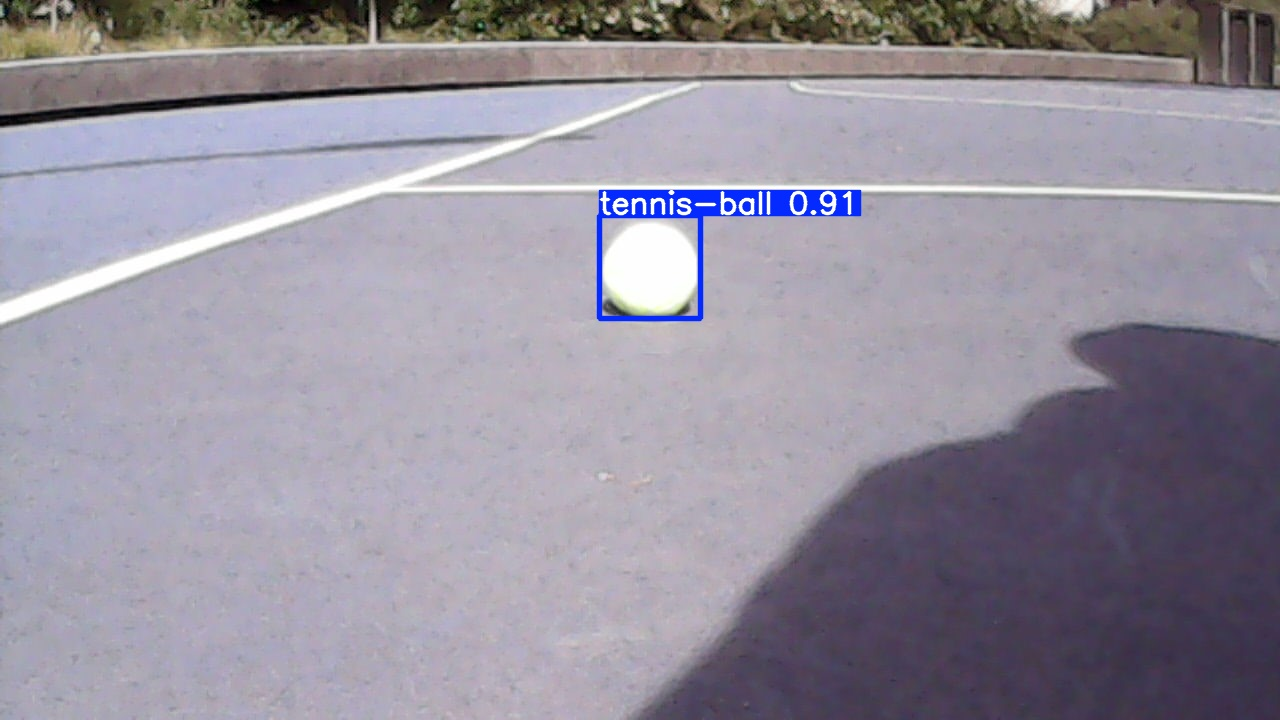
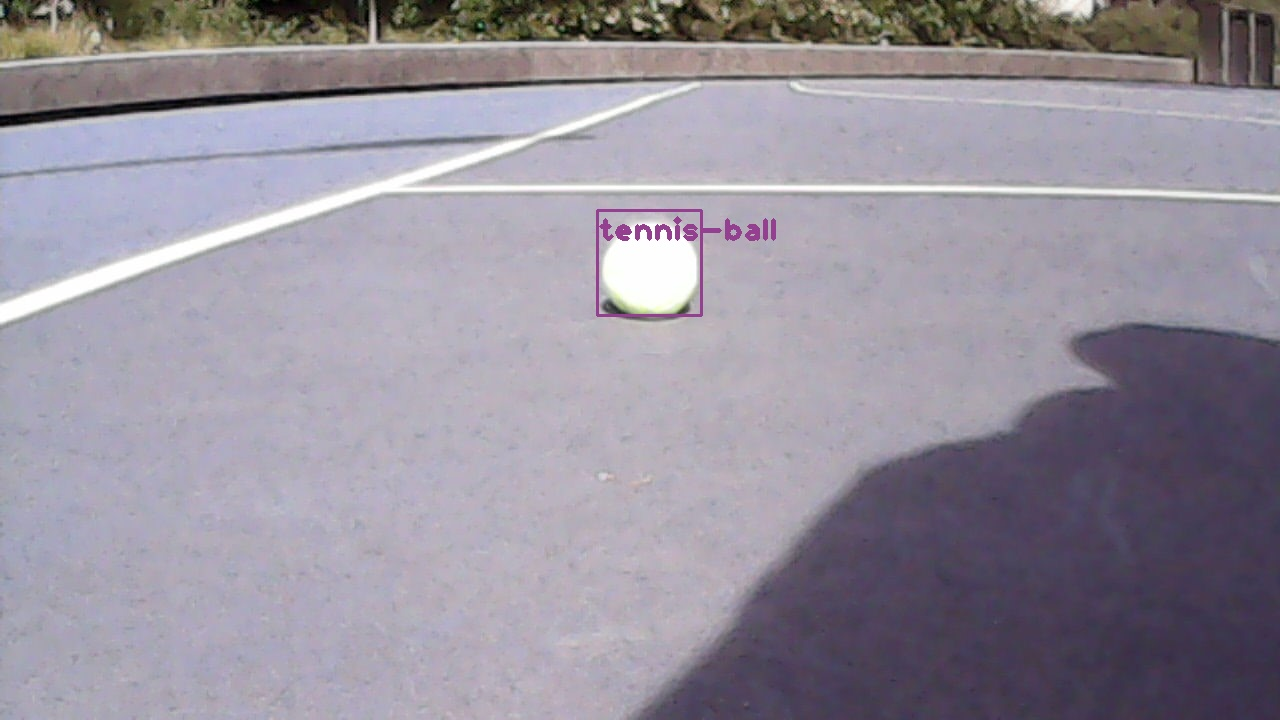
Adjusting Camera Settings
- Able to manually set brightness
- Updated YOLO model so it doesn't have big load time
- Inference is around ~800ms (with camera capture)

Changed region(s): [[0.4375, 0.2444, 0.6875, 0.4583], [0.4375, 0.3972, 0.4688, 0.4278]]

diff --git a/camera.py b/camera.py
@@ -2,8 +2,7 @@ import numpy as np
 import cv2
 import time
 import unittest
-# import torch
-from ultralytics import YOLO
+import ncnn # faster/lighter than ultralytics and torch
 
 class Camera:
     """
@@ -20,14 +19,22 @@ class Camera:
             self.cap = cv2.VideoCapture(-1, cv2.CAP_V4L)
             self.cap.set(cv2.CAP_PROP_FRAME_WIDTH, 640)
             self.cap.set(cv2.CAP_PROP_FRAME_HEIGHT, 480)
-            self.cap.set(cv2.CAP_PROP_FPS, 25)
-            # TODO: set autoexposure settings
-            time.sleep(0.5)
+            self.cap.set(cv2.CAP_PROP_FPS, 30)
+
+            # Default buffer size is 4, changes to brightness might not be observed until 4 frames are read
+            self.cap.set(cv2.CAP_PROP_BUFFERSIZE, 1)
+
+            # NOTE: I don't think our camera has exposure settings
+            # set the brightness instead (in range -255 to +255)
+            self.cap.set(cv2.CAP_PROP_BRIGHTNESS, -50)
+            time.sleep(0.1)
         else:
             self.cap = None
 
-        # Load ball detection model Model
-        self.model = YOLO('CV/YOLO_ball_detection.pt', verbose=True)
+        # Load ball detection model
+        self.model = ncnn.Net()
+        self.model.load_param("./CV/YOLO_ball_detection_ncnn_model/model.ncnn.param")
+        self.model.load_model("./CV/YOLO_ball_detection_ncnn_model/model.ncnn.bin")
 
         # Homography that transforms image coordinates to world coordinates
         self._H = np.array([
@@ -52,25 +59,79 @@ class Camera:
              print("Image not captured")
              return None
     
-    def apply_YOLO_model(self, img):
-        # Predict with the model
-        
-        image = cv2.cvtColor(img, cv2.COLOR_BGR2RGB)
+    def apply_YOLO_model(self, image):
+        """
+        Apply YOLO model to get locations of balls
+        """
+        # Preprocessing
+        height, width, _ = image.shape
+        img_proc = cv2.cvtColor(image, cv2.COLOR_BGR2RGB)
 
-        results = self.model(image, conf=0.50, verbose=False)  # predict on an image
+        img = image.copy()
+        shape = img.shape[:2]  # current shape [height, width]
+        new_shape = (640, 640)
 
+        # Scale ratio (new / old)
+        r = min(new_shape[0] / shape[0], new_shape[1] / shape[1])
+
+        # Compute padding
+        stride = 32
+        ratio = r, r  # width, height ratios
+        new_unpad = int(round(shape[1] * r)), int(round(shape[0] * r))
+        dw, dh = new_shape[1] - new_unpad[0], new_shape[0] - new_unpad[1]  # wh padding
+
+        dw /= 2  # divide padding into 2 sides
+        dh /= 2
+
+        if shape[::-1] != new_unpad:  # resize
+            img = cv2.resize(img, new_unpad, interpolation=cv2.INTER_LINEAR)
+        top, bottom = int(round(dh - 0.1)), int(round(dh + 0.1))
+        left, right = int(round(dw - 0.1)), int(round(dw + 0.1))
+        img = cv2.copyMakeBorder(
+            img, top, bottom, left, right, cv2.BORDER_CONSTANT, value=(114, 114, 114)
+        )  # add border
+
+        im = np.stack([img])
+        im = im[..., ::-1].transpose((0, 3, 1, 2))  # BGR to RGB, BHWC to BCHW, (n, 3, h, w)
+        in0 = np.ascontiguousarray(im/255).astype(np.float32)  # contiguous
+
+        # Prepare input
+        mat_in = ncnn.Mat(in0)
+
+        # Run inference
+        extractor = self.model.create_extractor()
+        extractor.input("in0", mat_in)
+        ret, mat_out = extractor.extract("out0")
+        out = np.array(mat_out)
         points = []
-        # Process results list
-        for result in results:
-            boxes = result.boxes  # Boxes object for bounding box outputs
-            for b in boxes:
-                d = b.xywh[0]
-                # points.append([d[])
-                points.append([d[0], d[1] + d[3]/2])
-            # result.show()  # display to screen
-            # result.save(filename="result.jpg")  # save to disk
 
-        # TODO: Filter out invlalid detections based on box size
+        # Process results (find the max)
+        for i in range(mat_out.w):
+            detection = out[:, i]
+            scores = detection[4:]
+            class_id = np.argmax(scores)
+            confidence = scores[class_id]
+            
+            if confidence > 0.6:
+                # Object detected
+                # TODO: Filter out invalid detections based on box size
+                xywh = detection[:4] / 640 # Centered coordinates
+                y = detection[1]
+                y = (y - top) / (640 - top - bottom)
+                
+                x = int(xywh[0] * width)
+                y = int(y * height + xywh[3] * width * 0.5)
+                
+                # Check if it already exists
+                duplicate = False
+                for p in points:
+                    if (p[0] - x) ** 2 + (p[1] - y)**2 < 5:
+                        duplicate = True
+                        break # don't add duplicate points
+                
+                if not duplicate:
+                    points.append([x, y])
+
         points = np.array(points)
         return points.astype(int)
 
@@ -156,22 +217,44 @@ class Camera:
 
 
 
-class TestBot(unittest.TestCase):
+class TestCamera(unittest.TestCase):
     """
     Test Camera specific functions
     """
     def setUp(self):
-        self.cam = Camera(False)
+        self.startTime = time.time()
+
+    def tearDown(self):
+        t = time.time() - self.startTime
+        print('%s: %.3f' % (self.id(), t))
 
     def test_image_to_world(self):
+        self.cam = Camera(False) # no camera
         img_c = np.array([[100, 100]])
         self.cam.image_to_world(img_c)
 
     def test_YOLO_model(self):
         # Open image(s) and pass to model
+        self.cam = Camera(False) # no camera
         img = cv2.imread('CV/test_imgs/test_images/testing0001.jpg')
         res = self.cam.apply_YOLO_model(img)
         print(res)
+
+    def test_capture(self):
+        self.cam = Camera(True)
+        self.startTime = time.time()
+        img = self.cam.capture()
+        if img is not None:
+            cv2.imwrite("result.jpg", img)
+        self.assertTrue(img is not None, "Camera did not capture anything")
+        for i in range(0, 10):
+            s = time.time()
+            img = self.cam.capture()
+            if img is not None:
+                cv2.imwrite(f"./test_results/result{i}.jpg", img)
+            e = time.time()
+            print(f"Frame {i}: {(e-s)*1e3:.2f} msec")
+
 
     def test_ball_detection(self):
         # Open image(s) and pass to function
@@ -184,7 +267,7 @@ class TestBot(unittest.TestCase):
     def test_box_detection(self):
         # Open images and pass to function
         ...
-        
 
 if __name__ == '__main__':
-    unittest.main()
+    suite = unittest.TestLoader().loadTestsFromTestCase(TestCamera)
+    unittest.TextTestRunner(verbosity=0).run(suite)

diff --git a/CV/toNCNN.py b/CV/toNCNN.py
@@ -1,6 +1,11 @@
+"""
+NCNN is a lighter neural network library that loads a lot faster than torch/ultralytics
+Convert/test YOLO model here
+"""
 import time
 import cv2
 import numpy as np
+import timeit
 
 t = time.time()
 from ultralytics import YOLO
@@ -12,8 +17,21 @@ ncnn_model = YOLO("./YOLO_ball_detection_ncnn_model", task="detect")
 # print(f'YOLO Model loaded in {time.time()-t-e} seconds.')
 
 # # Run inference
+t = time.time()
 results = ncnn_model("./test_imgs/test_images/testing0000.jpg")
-print(results[0].boxes[0].xyxy)
+# print(results[0].boxes[0].xyxy)
+e = time.time()
+print(f'Ultralytics NCNN YOLO inferred in {e - t} seconds.')
+
+# Load the OG YOLO model
+ncnn_model = YOLO("YOLO_ball_detection.pt")
+
+# # Run inference
+t = time.time()
+results = ncnn_model("./test_imgs/test_images/testing0000.jpg")
+# print(results[0].boxes[0].xyxy)
+e = time.time()
+print(f'Ultralytics YOLO inferred in {e - t} seconds.')
 
 t = time.time()
 import ncnn
@@ -59,16 +77,9 @@ img = cv2.copyMakeBorder(
     img, top, bottom, left, right, cv2.BORDER_CONSTANT, value=(114, 114, 114)
 )  # add border
 
-# cv2.imshow("img", img)
-# cv2.waitKey(0)
-
 im = np.stack([img])
 im = im[..., ::-1].transpose((0, 3, 1, 2))  # BGR to RGB, BHWC to BCHW, (n, 3, h, w)
 in0 = np.ascontiguousarray(im/255).astype(np.float32)  # contiguous
-
-
-# cv2.imshow('win', image)
-# cv2.waitKey(0)
 
 # Prepare input
 mat_in = ncnn.Mat(in0)
@@ -130,8 +141,9 @@ for i in range(len(boxes)):
 e = time.time()
 print(f'NCNN model load image and inferred in {e-t} seconds.')
 
-cv2.imshow('test',image)
-cv2.waitKey(0)
+# cv2.imshow('test',image)
+# cv2.waitKey(0)
+cv2.imwrite("result.jpg",image)
 
 # # Load a YOLOv8n PyTorch model
 # model = YOLO("YOLO_ball_detection.pt")
